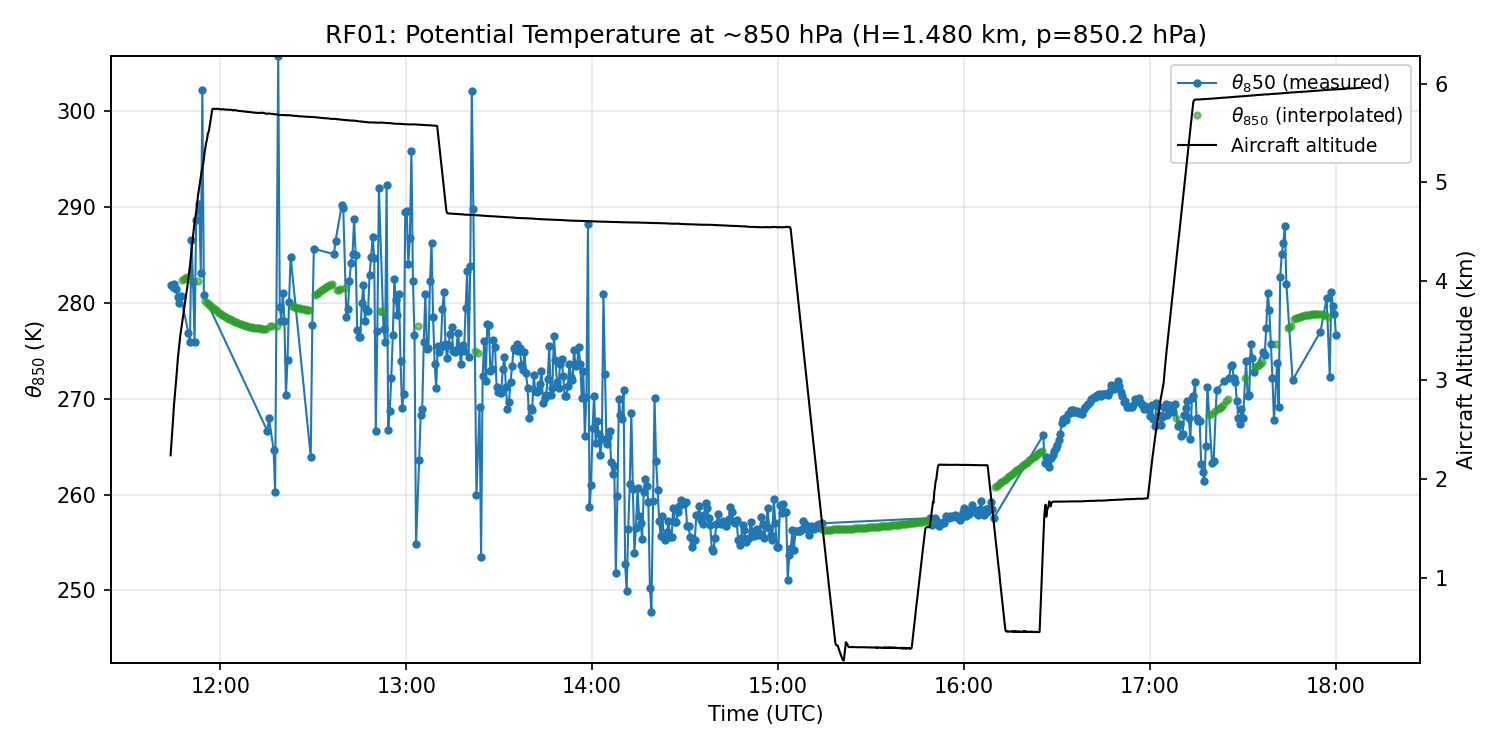
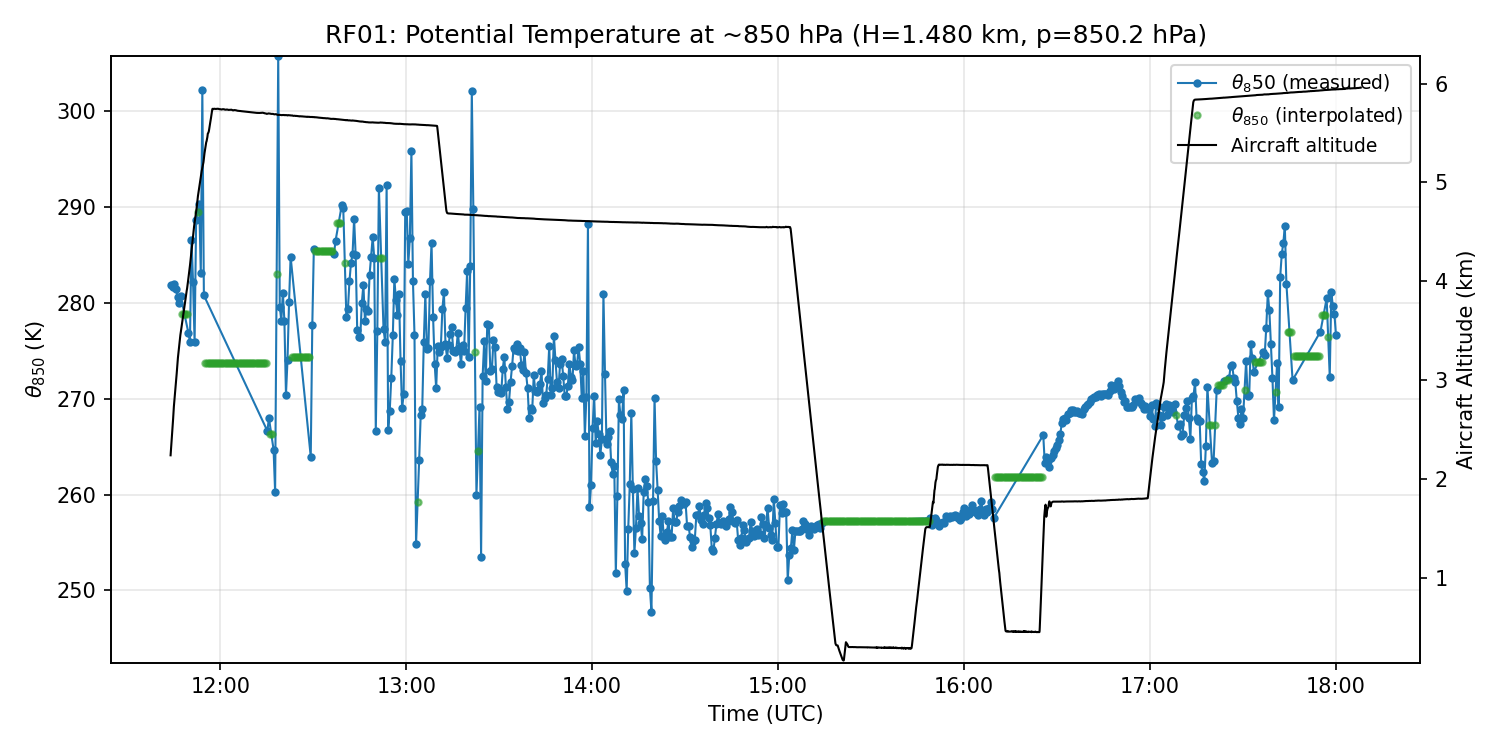
linear interpolation

diff --git a/src/638-021/potential_temperature.py b/src/638-021/potential_temperature.py
@@ -20,7 +20,7 @@ FILL_VALUE = 9999.0
 P_850 = 850  # hPa
 
 MAD_K = 5.0  # multiplier for MAD
-TEMPORAL_RESOLUTION = 30 # seconds
+TEMPORAL_RESOLUTION = 30  # seconds
 
 
 def mask_temperature_outliers(T: np.ndarray, k: float = MAD_K) -> np.ndarray:
@@ -94,9 +94,9 @@ def _extract_theta_850(ds) -> tuple[np.ndarray, np.ndarray, float, float]:
 
 
 def regrid_timeseries(
-        time_hours: np.ndarray,
-        data: np.ndarray,
-        dt_seconds: float,
+    time_hours: np.ndarray,
+    data: np.ndarray,
+    dt_seconds: float,
 ) -> tuple[np.ndarray, np.ndarray]:
     """
     Regrid time series to uniform temporal resolution (of dt_seconds) using block averaging.
@@ -146,23 +146,13 @@ def find_gaps(mask: np.ndarray) -> list[tuple[int, int]]:
     return gaps
 
 
-def interpolate_gaps(
-        time: np.ndarray,
-        data: np.ndarray,
-        window_minutes: float = 30,
-        poly_degree: int = 2,
-        min_points: int = 10,
-) -> tuple[np.ndarray, np.ndarray]:
+def interpolate_gaps(data: np.ndarray) -> tuple[np.ndarray, np.ndarray]:
     """
-    Interpolate interior gaps using polynomial curve fitting.
-
-    Only fills gaps that have valid data on both sides (skips edges to avoid
-    extrapolation). For each interior gap, fits a polynomial to data in a
-    window before and after the gap, then uses the fitted curve to fill it.
+    Fill interior gaps using the mean of the two boundary endpoints.
 
     Returns:
-        data_filled: array with interior gaps filled
-        is_interpolated: boolean mask indicating which points were interpolated
+        data_filled: array with interior gaps filled (constant per gap)
+        is_interpolated: boolean mask indicating which points were filled
     """
     missing = np.isnan(data)
     data_filled = data.copy()
@@ -171,52 +161,29 @@ def interpolate_gaps(
     if np.sum(valid) < 2:
         return data, missing
 
-    window_hours = window_minutes / 60.0
     gaps = find_gaps(missing)
     is_interpolated = np.zeros_like(data, dtype=bool)
 
     for gap_start, gap_end in gaps:
-        # only interpolate interior gaps (valid data on both sides)
+        # only fill interior gaps (valid data on both sides)
         if not np.any(valid[:gap_start]) or not np.any(valid[gap_end:]):
             continue
 
-        gap_time = time[gap_start:gap_end]
+        # endpoints: last valid before gap and first valid after gap
+        y_before = data[np.where(valid[:gap_start])[0][-1]]
+        y_after = data[gap_end + np.argmax(valid[gap_end:])]
 
-        # find valid data within window before and after gap
-        before_mask = (time < time[gap_start]) & (time >= time[gap_start] - window_hours) & valid
-        after_mask = (time > time[gap_end - 1]) & (time <= time[gap_end - 1] + window_hours) & valid
+        gap_mean = (y_before + y_after) / 2.0
+        gap_std = np.std([y_before, y_after])
 
-        fit_time = time[before_mask | after_mask]
-        fit_data = data[before_mask | after_mask]
+        data_filled[gap_start:gap_end] = gap_mean
+        is_interpolated[gap_start:gap_end] = True
 
-        if len(fit_data) < min_points:
-            # fall back to linear interpolation
-            idx_before = np.where((time < time[gap_start]) & valid)[0]
-            idx_after = np.where((time > time[gap_end - 1]) & valid)[0]
-
-            if len(idx_before) > 0 and len(idx_after) > 0:
-                i0, i1 = idx_before[-1], idx_after[0]
-                t0, t1 = time[i0], time[i1]
-                y0, y1 = data[i0], data[i1]
-                data_filled[gap_start:gap_end] = y0 + (y1 - y0) * (gap_time - t0) / (t1 - t0)
-                is_interpolated[gap_start:gap_end] = True
-            continue
-
-        # fit polynomial (normalize time for numerical stability)
-        t_mean = np.mean(fit_time)
-        t_std = np.std(fit_time)
-        if t_std < 1e-10:
-            continue
-
-        fit_time_norm = (fit_time - t_mean) / t_std
-        gap_time_norm = (gap_time - t_mean) / t_std
-
-        try:
-            coeffs = np.polyfit(fit_time_norm, fit_data, poly_degree)
-            data_filled[gap_start:gap_end] = np.polyval(coeffs, gap_time_norm)
-            is_interpolated[gap_start:gap_end] = True
-        except np.linalg.LinAlgError:
-            continue
+        # print(
+        #     f"  gap [{gap_start}:{gap_end}] "
+        #     f"endpoints=({y_before:.2f}, {y_after:.2f}) "
+        #     f"mean={gap_mean:.2f} std={gap_std:.2f}"
+        # )
 
     return data_filled, is_interpolated
 
@@ -250,13 +217,7 @@ def compute_theta_850(flight: str, interpolate: bool = True) -> dict:
 
     # interpolate gaps if requested
     if interpolate:
-        theta_850_filled, is_interpolated = interpolate_gaps(
-            time_hours_regrid,
-            theta_850_regrid,
-            window_minutes=30,
-            poly_degree=2,
-            min_points=20,
-        )
+        theta_850_filled, is_interpolated = interpolate_gaps(theta_850_regrid)
     else:
         theta_850_filled = theta_850_regrid
         is_interpolated = np.zeros_like(theta_850_regrid, dtype=bool)
@@ -273,10 +234,10 @@ def compute_theta_850(flight: str, interpolate: bool = True) -> dict:
 
 
 def plot_theta_850(
-        flight: str,
-        result: dict,
-        theta_lim: tuple,
-        alt_lim: tuple,
+    flight: str,
+    result: dict,
+    theta_lim: tuple,
+    alt_lim: tuple,
 ) -> str:
     os.makedirs(PLOTS_DIR, exist_ok=True)
     out_path = os.path.join(PLOTS_DIR, f"{flight.lower()}_theta850.png")
@@ -298,7 +259,7 @@ def plot_theta_850(
         markersize=3,
         linewidth=1,
         color="tab:blue",
-        label=f"$\\theta_{850}${" (measured)" if np.any(is_interpolated) else ""}",
+        label=f"$\\theta_{850}${' (measured)' if np.any(is_interpolated) else ''}",
     )
 
     # plot interpolated data with dashed line
